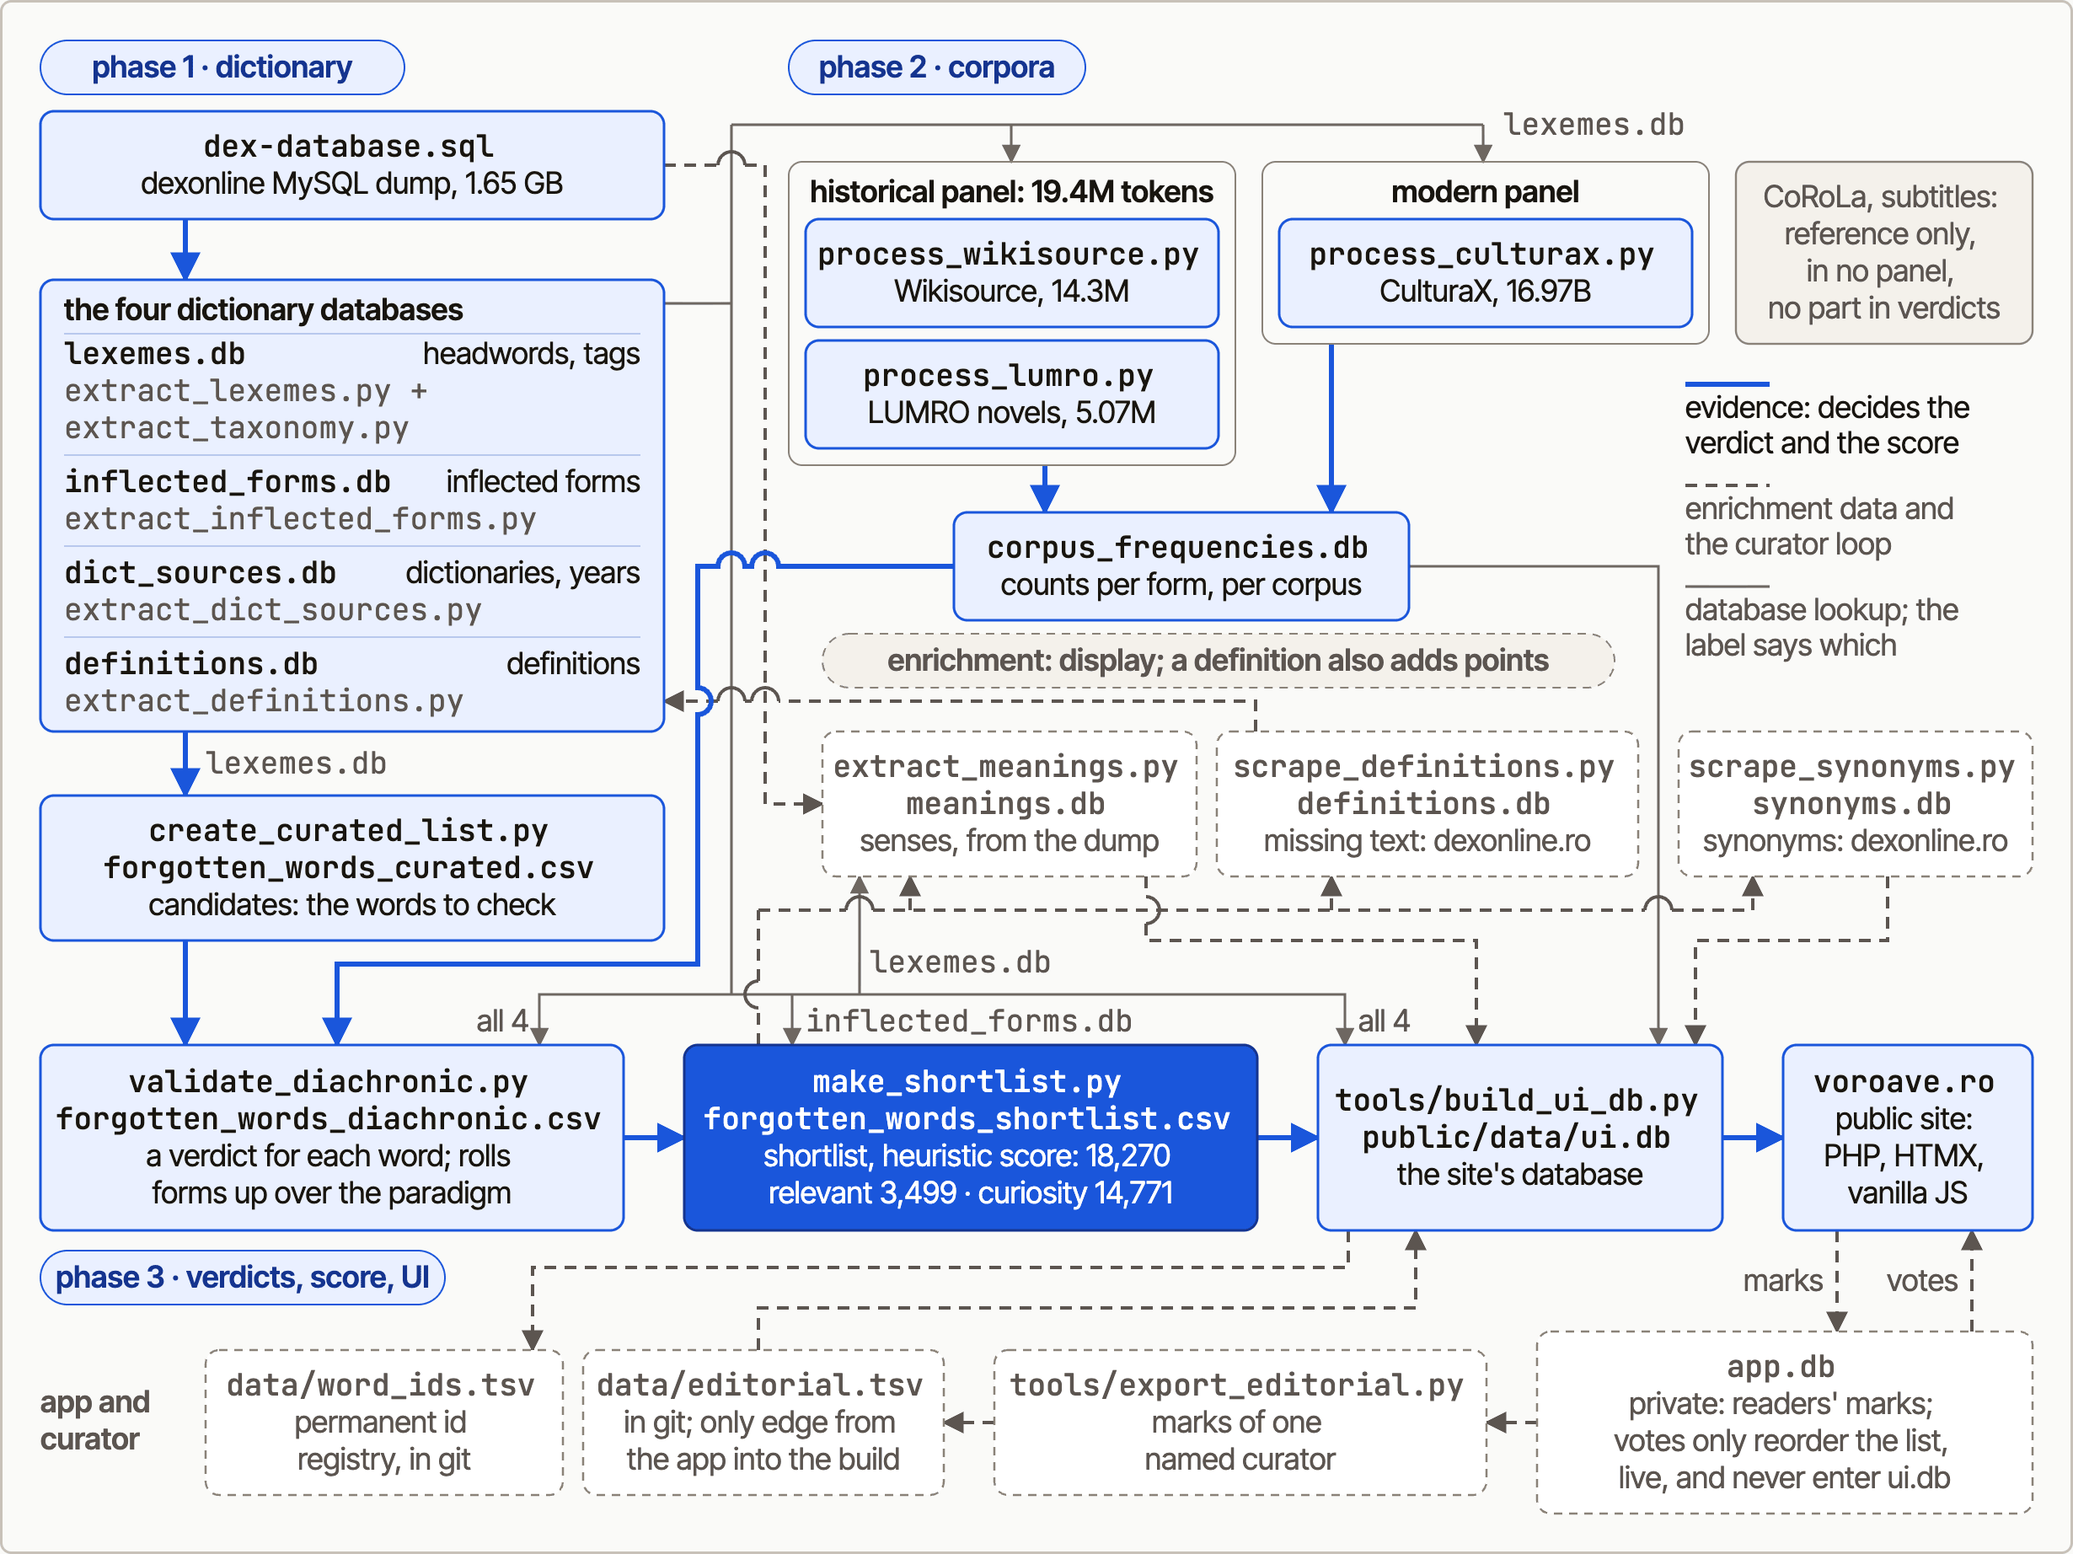
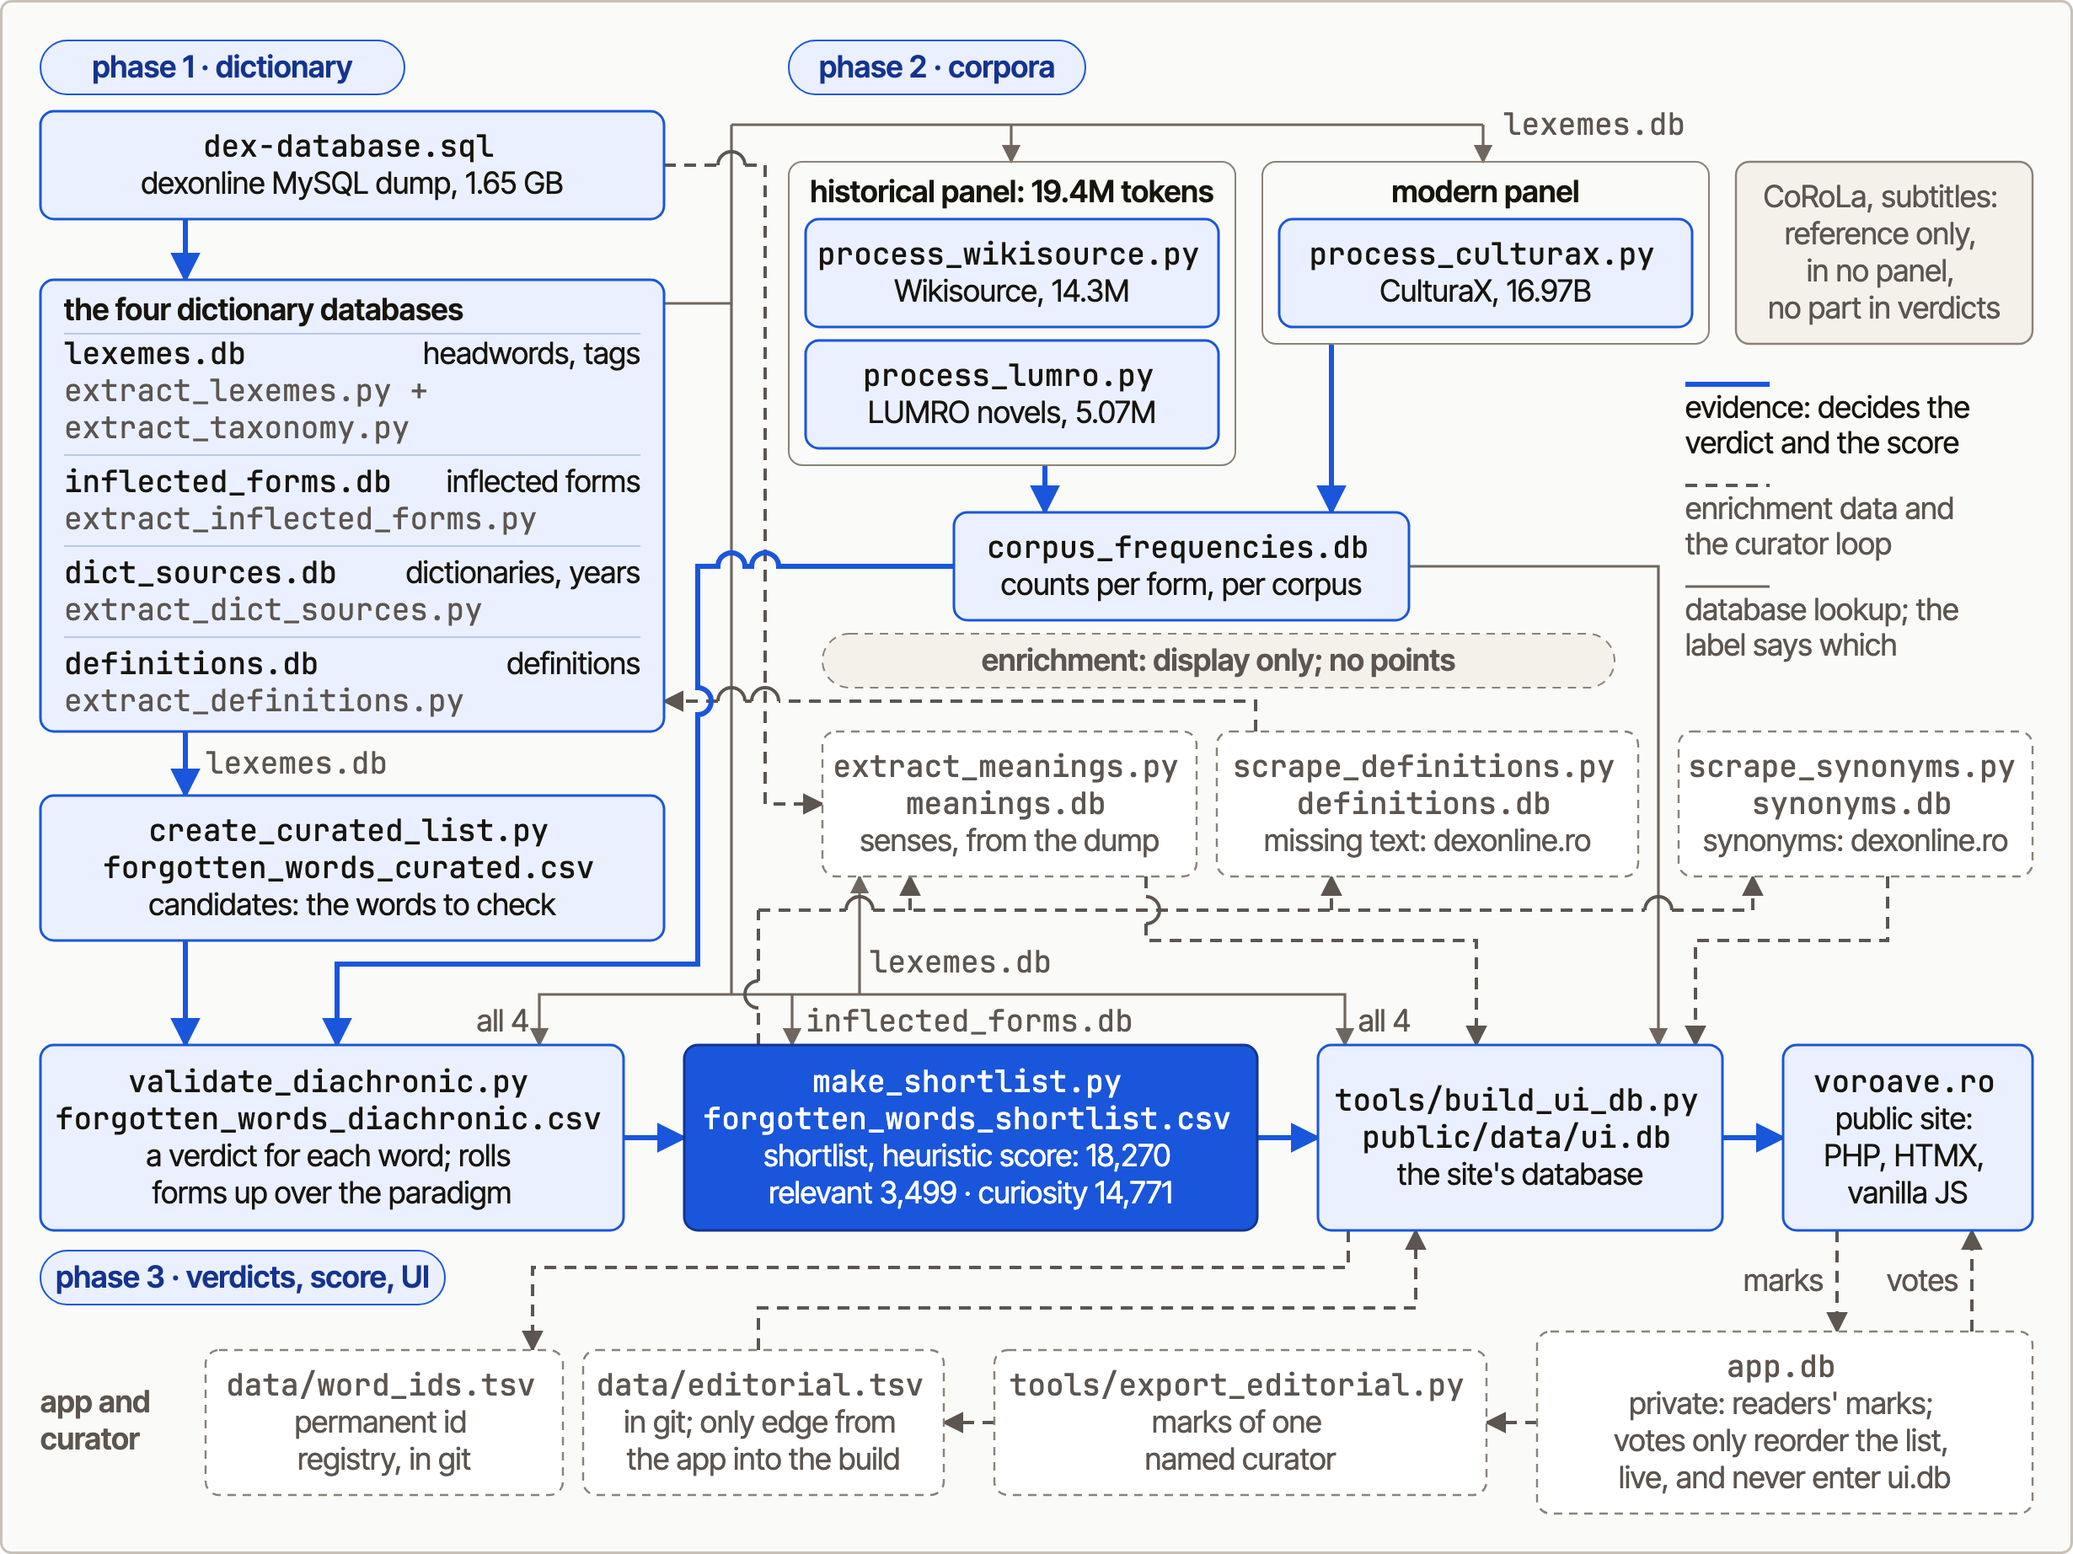
feat(score): drop the definition bonus; relevant threshold 92 -> 87
Owner decision (docs/eval/definition-bonus.md). Every word with a definition
keeps its seam; 6 without one join `relevant`. Definition scrapes no longer
move words between seams. The pipeline figure badge now says "display only".

Claude-Session: https://claude.ai/code/session_012EFuHiDBGM7RKeRroKi6vX

Changed region(s): [[0.4325, 0.4018, 0.7415, 0.4328]]

diff --git a/public/metodologie.html b/public/metodologie.html
@@ -713,7 +713,7 @@
       nu din intuiție sau prejudecăți culturale.
     </p>
     <figure id="flux">
-      <a href="assets/metodologie/pipeline-ro.png" target="_blank" rel="noopener" title="Vezi la mărime completă"><img src="assets/metodologie/pipeline-ro.png" width="2460" height="1844" style="width: 100%; height: auto;" alt="Cum ajunge un cuvânt în clasamentul Voroave. Diagramă în trei faze: dumpul dexonline dă bazele de dicționar și candidații, corpusurile istorice și moderne dau numărările, iar verdictul, scorul și ui.db duc la site, pe traseul albastru plin. Linia punctată arată datele de îmbogățire și bucla curatorului. O definiție adaugă puncte la scor." loading="lazy"></a>
+      <a href="assets/metodologie/pipeline-ro.png" target="_blank" rel="noopener" title="Vezi la mărime completă"><img src="assets/metodologie/pipeline-ro.png" width="2460" height="1844" style="width: 100%; height: auto;" alt="Cum ajunge un cuvânt în clasamentul Voroave. Diagramă în trei faze: dumpul dexonline dă bazele de dicționar și candidații, corpusurile istorice și moderne dau numărările, iar verdictul, scorul și ui.db duc la site, pe traseul albastru plin. Linia punctată arată datele de îmbogățire și bucla curatorului. Datele de îmbogățire se afișează și nu adaugă puncte la scor." loading="lazy"></a>
       <figcaption style="font-size: .85em; margin-top: .6em; color: var(--text2);">Rangul unui cuvânt vine din compararea intrărilor de dicționar cu un panel istoric și unul modern de corpusuri; rezultatul este un clasament euristic de candidați. <span style="white-space: nowrap;"><code>diagram-designer</code> agent by <a href="https://github.com/iello/" target="_blank" rel="noopener" style="display: inline;">iello</a></span></figcaption>
     </figure>
   </section>

diff --git a/make_shortlist.py b/make_shortlist.py
@@ -105,7 +105,11 @@ SCORE_DEX_FREQ = [(0.95, 20), (0.85, 17), (0.70, 13), (0.50, 8), (0.30, 4)]
 SCORE_DICTS    = [(15, 12), (10, 10), (6, 8), (3, 5), (2, 3)]
 
 SCORE_CURRENT_DICT = 13
-SCORE_HAS_DEF      = 5
+# No bonus for having a definition (owner decision 2026-11-10; docs/eval/definition-bonus.md).
+# 94% of the shortlist has one, so 5 points lifted nearly every word, and each definition
+# scrape moved words between seams with no new corpus evidence (68 after the 2026-08-17
+# merge). A definition is a display matter. RELEVANT_MIN_SCORE dropped by the same 5 points.
+SCORE_HAS_DEF      = 0
 PENALTY_FAMILY     = 8
 
 # `regional_only` and `variant_like` deliberately carry **no score penalty**. They are
@@ -116,11 +120,13 @@ PENALTY_FAMILY     = 8
 # until asked for. The score says how good the evidence is; the flags say what you would
 # rather not look at, and you can change your mind about the second.
 
-# Tuned by inspecting the seam at 76 / 82 / 88 / 92: below ~92 the relevant seam starts
+# Tuned by inspecting the seam at 76 / 82 / 88 / 92, when a definition still added 5 points;
+# 87 is that 92 without the bonus. Measured on 2026-11-09 data it keeps every word that has a
+# definition and adds 6 that have none. The tuning note, in the old units: below ~92 the relevant seam starts
 # taking in dictionary-only curiosities (potricală, țarțam, sărciner) that were never in
 # circulation. At 92 it holds ~2.3k words and reads like poronci, jeț, jiganie, iznoavă,
 # vorovi, ciocoism, prepelicar, spoliație, poetastru.
-RELEVANT_MIN_SCORE = 92
+RELEVANT_MIN_SCORE = 87
 
 # Min dex_frequency for a word with no corpus signal at all to qualify. The old code had
 # this as 0.70 in classify()'s signature and 0.85 on the CLI, so the gate moved depending

diff --git a/tests/test_make_shortlist.py b/tests/test_make_shortlist.py
@@ -178,6 +178,21 @@ def test_current_dictionary_raises_score():
     assert ms.score(BASE_ROW) > ms.score({**BASE_ROW, 'in_current_dict': '0'})
 
 
+def test_a_definition_adds_no_points():
+    """Owner decision 2026-11-10 (docs/eval/definition-bonus.md). A definition is a display
+    matter; scoring it let every definition scrape move words between seams."""
+    assert ms.score({**BASE_ROW, 'has_definition': '0'}) == ms.score(BASE_ROW)
+
+
+def test_a_definition_scrape_cannot_change_the_seam(tmp_path):
+    rows = [{**BASE_ROW, 'word': 'cudef'}, {**BASE_ROW, 'word': 'faradef', 'has_definition': '0'}]
+    make_diachronic_csv(tmp_path / 'in.csv', rows)
+    out = {r['word']: r for r in run(tmp_path / 'in.csv', tmp_path / 'out.csv', '--no-dedup')}
+    assert out['cudef']['seam'] == out['faradef']['seam']
+    assert out['cudef']['quality_score'] == out['faradef']['quality_score']
+    assert ms.RELEVANT_MIN_SCORE == 87     # the former 92 minus the former 5-point bonus
+
+
 def test_regional_and_variant_carry_no_score_penalty():
     """Evidence quality and editorial preference are kept apart. Penalising these here
     as well as hiding them in the UI meant no such word could reach the relevant seam,

diff --git a/tools/eval_sample.py b/tools/eval_sample.py
@@ -44,7 +44,8 @@ DEFAULT_SEED = "f09-voroave-eval-v1"
 DEFAULT_N = 1200
 FLOOR_PER_CELL = 3
 DEV_SHARE_PERCENT = 40            # 40% development, 60% held-out test, by lemma group
-SCORE_EDGES = (60, 80, 92, 105)   # band edges; 92 is RELEVANT_MIN_SCORE
+SCORE_EDGES = (60, 80, 92, 105)   # band edges; 92 was RELEVANT_MIN_SCORE when sample v1 was drawn
+                                  # (with the definition bonus). Unchanged so sample v1 reproduces.
 SCORE_BAND_NAMES = ("lt60", "60-79", "80-91", "92-104", "ge105")
 
 ROOT = Path(__file__).resolve().parent.parent

diff --git a/public/api/_lib.php b/public/api/_lib.php
@@ -52,6 +52,8 @@ $SORT_OPTIONS = [
  * spans 92–121, with 76% of its 3,499 words inside a ten-point band, so a linear weight
  * of even 5/vote would let four votes carry a word from the median to the top forty.
  * Against that span, 20 forged votes buy ~12 points: real movement, not the top.
+ * (Measured with the 5-point definition bonus; since 2026-11-10 the scale starts at 87,
+ * the same spread 5 points lower, so the bands keep their effect.)
  *
  * Votes can only ever reorder. Nothing here removes a row — see vote_counts_subquery().
  */

diff --git a/docs/BACKLOG.md b/docs/BACKLOG.md
@@ -125,7 +125,8 @@ The account-recovery decision, the spot-check marks, the marking interface, lice
 - [ ] **Public alpha prerequisites and dictionary-source permission review.** The items are in "Public alpha
   readiness — 2026-10-05" below: the dexonline source licence list, `/stats` report access, production
   configuration, the "browser is the account" notice, a code licence (owner's choice), and the sample `ui.db`.
-- [ ] **Decide on the five-point definition bonus (`SCORE_HAS_DEF`).** Measured 2026-11-09:
+- [x] **Decide on the five-point definition bonus (`SCORE_HAS_DEF`).** Decided 2026-11-10: no bonus, threshold 87
+  (+6 relevant words without a definition, none removed; the curator demotes any that read badly). Measured 2026-11-09:
   [docs/eval/definition-bonus.md](eval/definition-bonus.md). At a recalibrated threshold it changes 6 seam members and
   moves other words by ≤ 3 places; its cost is drift (the 2026-08-17 scrape moved 68 words into `relevant`). Owner decides.
   Original entry: **Measure the ranking effect of the five-point definition bonus.** Moved here from "Pipeline
@@ -154,6 +155,32 @@ The account-recovery decision, the spot-check marks, the marking interface, lice
   144,459 lookup forms and runs at about 820 docs/s; ETA about 13.7 h (2026-11-10, around 11:00 VPS time) if there
   are no network restarts. Next: VPS Phase 3 (compare totals), copy its v2 to the Mac, merge `culturax_ro` into the
   Mac v2, then F11 Step 2 again from `validate_diachronic.py` and `build_ui_db.py`.
+  After that rebuild, also update the counts in the pipeline figure (it shows 18,270 / relevant 3,499 / curiosity 14,771)
+  and in `AGENTS.md` ("Seams"); re-render the PNGs with Inter Tight embedded (it is not installed on the Mac).
+
+### Cross-project requests — 2026-11-10
+
+- [ ] **Link to wROdfreq from the README and the website.** Requested by the owner on
+  2026-11-10, from the wROdfreq project. wROdfreq is the Romanian word-frequency table
+  built from oțios's tokenizer and DEX paradigm map (`~/devbox/gov2/wrodfreq`,
+  <https://github.com/gov2-ro/wrodfreq>). Version 0.2.1 is tagged on GitHub (`v0.2.1`); the
+  final table is a Google Drive review copy linked from its README. It is not on PyPI yet,
+  so do not link a `pip install` command. Add the link in three places:
+  1. `README.md` — one line near the frequency sources (the wordfreq and archived recipe
+     links), naming wROdfreq and its GitHub URL.
+  2. `public/metodologie.html` — line ~1064 already names "wRodfreq" without a link. Spell
+     it `wROdfreq`, link it to the GitHub repository, and say in one sentence what it is:
+     a Romanian frequency table on the Zipf scale, from six open corpora, with per-source
+     reliability counts.
+  3. `public/despre.html` — a short "related projects" mention with the same link.
+  Deploy with the next batch (see "Owner decisions and operations" above). Wording stays in
+  Romanian and follows the site's existing style.
+- [ ] **Re-run `validate_with_wrodfreq.py` against wROdfreq 0.2.1.** The wROdfreq 0.2.0
+  data had two defects, fixed in 0.2.1 (build `9550cd80441597586fa1a74eaf9069b2`):
+  the `social` counts held a test run twice (30,155,307 extra tokens), and 2,382 lemmas had
+  `family_ratio` below 1. Any oțios result or text that used 0.2.0 numbers should be
+  re-measured. The sibling checkout's `wrodfreq/data/` now holds 0.2.1 (data format 2); an
+  editable install picks it up. Details: wROdfreq `docs/activity-history.md`, 2026-11-09.
 
 ### Public alpha readiness — 2026-10-05
 

diff --git a/docs/diagrams/pipeline.md b/docs/diagrams/pipeline.md
@@ -6,13 +6,13 @@ Sources: `pipeline-ro.svg`, `pipeline-en.svg`. Canvas 1230×922. PNG 2460×1844.
 
 - Title: Cum ajunge un cuvânt în clasamentul Voroave
 - Caption: Rangul unui cuvânt vine din compararea intrărilor de dicționar cu un panel istoric și unul modern de corpusuri; rezultatul este un clasament euristic de candidați.
-- Alt text: Diagramă în trei faze: dumpul dexonline dă bazele de dicționar și candidații, corpusurile istorice și moderne dau numărările, iar verdictul, scorul și ui.db duc la site, pe traseul albastru plin. Linia punctată arată datele de îmbogățire și bucla curatorului. O definiție adaugă puncte la scor.
+- Alt text: Diagramă în trei faze: dumpul dexonline dă bazele de dicționar și candidații, corpusurile istorice și moderne dau numărările, iar verdictul, scorul și ui.db duc la site, pe traseul albastru plin. Linia punctată arată datele de îmbogățire și bucla curatorului. Datele de îmbogățire se afișează și nu adaugă puncte la scor.
 
 ## English (`docs/diagrams/pipeline-en.png`)
 
 - Title: How a word reaches the Voroave ranking
 - Caption: A word's rank comes from comparing dictionary entries with a historical and a modern corpus panel; the output is a heuristic candidate ranking.
-- Alt text: A three-phase diagram: the dexonline dump gives the dictionary databases and the candidates, the historical and modern corpora give the counts, and the verdict, score and ui.db lead to the site on the solid blue route. The dashed line shows enrichment data and the curator loop. A definition adds points to the score.
+- Alt text: A three-phase diagram: the dexonline dump gives the dictionary databases and the candidates, the historical and modern corpora give the counts, and the verdict, score and ui.db lead to the site on the solid blue route. The dashed line shows enrichment data and the curator loop. Enrichment data is displayed and adds no points to the score.
 
 ## Placement
 

diff --git a/docs/activity-history.md b/docs/activity-history.md
@@ -2,6 +2,15 @@
 
 Chronological log of meaningful work. Add entries under `## YYYY-MM-DD — Short Title`.
 
+## 2026-11-10 — Definition bonus removed; relevant threshold 87
+
+Owner decision, from `docs/eval/definition-bonus.md`: `SCORE_HAS_DEF` 5 → 0 and `RELEVANT_MIN_SCORE` 92 → 87.
+Every word with a definition keeps its seam; 6 words without one join `relevant` (`alău`, `blăni`, `hiriș` visible).
+Definition scrapes no longer move words between seams. Two tests pin it; both fail on the old code.
+`tools/eval_sample.py` keeps its 92 band edge so sample v1 reproduces. The pipeline figure's badge now reads
+"display only; no points" (EN and RO); both PNGs were re-rendered in Chromium at 2× with Inter Tight embedded,
+because only Inter is installed (the fallback widened the labels). Takes effect at the next shortlist run.
+
 ## 2026-11-09 — F11 Step 4: Wikisource and LUMRO recounted; CulturaX handed to the VPS
 
 Recounted Wikisource and LUMRO on the Mac into `corpus_frequencies.v2.db`, with the `V` lemmas and the refreshed

diff --git a/AGENTS.md b/AGENTS.md
@@ -741,7 +741,8 @@ Two things to keep:
   even 5/vote lets four votes carry a word from the median to the top forty. On the ladder,
   each *doubling* of the vote count is worth about two more points — measured: `barabor`
   carries 20 ★ votes (every one of them a test fixture) and the blend moves it 92 → 104,
-  well short of `văz` at 121.
+  well short of `văz` at 121. (Measured with the definition bonus. Since 2026-11-10 the
+  scale is 5 points lower — the seam starts at 87 — and the spread is the same.)
 - **`search.php` joins the vote counts only for this sort**, and the subquery's key column
   is aliased `vote_word` — joined as `word` it would make every unqualified `word` in
   `build_word_filter()`'s conditions ambiguous, and those conditions are shared with the

diff --git a/docs/eval/definition-bonus.md b/docs/eval/definition-bonus.md
@@ -1,6 +1,11 @@
 # The five-point definition bonus (`SCORE_HAS_DEF`)
 
-Measured 2026-11-09 for [F11](../fixes/F11-local-followups.md) Step 3. No weight was changed. The owner decides.
+Measured 2026-11-09 for [F11](../fixes/F11-local-followups.md) Step 3.
+
+**Decision 2026-11-10 (owner): option 2.** `SCORE_HAS_DEF = 0` and `RELEVANT_MIN_SCORE = 87`. The 6 words without a
+definition join the `relevant` seam; the curator demotes any that read badly. Pinned by `tests/test_make_shortlist.py`
+(`test_a_definition_adds_no_points`, `test_a_definition_scrape_cannot_change_the_seam`). The pipeline figure says
+"display only; no points". It takes effect at the next `make_shortlist.py` run.
 
 ## Rule
 
